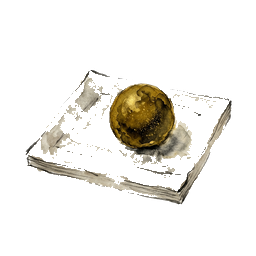
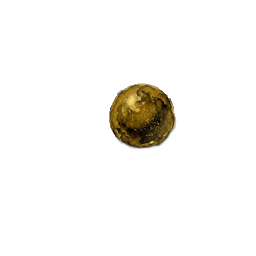
fix(art): 修復 4 張遺物/藥品去背殘留（改用 isnet-general 模型）
bai_hu_ya 未去黑底、yu_puti_zhu/yuenv_jian 乳白薄膜、shexiang_wan 玻璃盤毛邊，
以 rembg isnet-general-use 重去背（保留原尺寸、已 reimport 驗證）。
art_post.py docstring 補記：isnet-anime 對水墨低對比主體會過切，改用 general 模型。

diff --git a/tools/art_post.py b/tools/art_post.py
@@ -10,7 +10,10 @@
     --max-size N      放大後長邊縮回 N px（預設 1024；0 = 不縮）
     --no-rembg        跳過去背（圖已是透明背景時用）
     --no-upscale      跳過放大
-    --rembg-model M   rembg 模型（預設 isnet-anime，插畫最穩）
+    --rembg-model M   rembg 模型（預設 isnet-anime）
+                      ⚠ isnet-anime 適合乾淨線稿；對「水墨painted、低對比」主體
+                      會過度切割、把主體一起刪光（實測 bai_hu_ya/yu_puti_zhu/yuenv_jian
+                      整片消失）。這類已上色插畫改用 isnet-general-use 或 u2net。
     --gpu N           Real-ESRGAN 用第 N 顆 GPU（-1 = 自動；本機 1 = RTX 4050）
 
 依賴：
